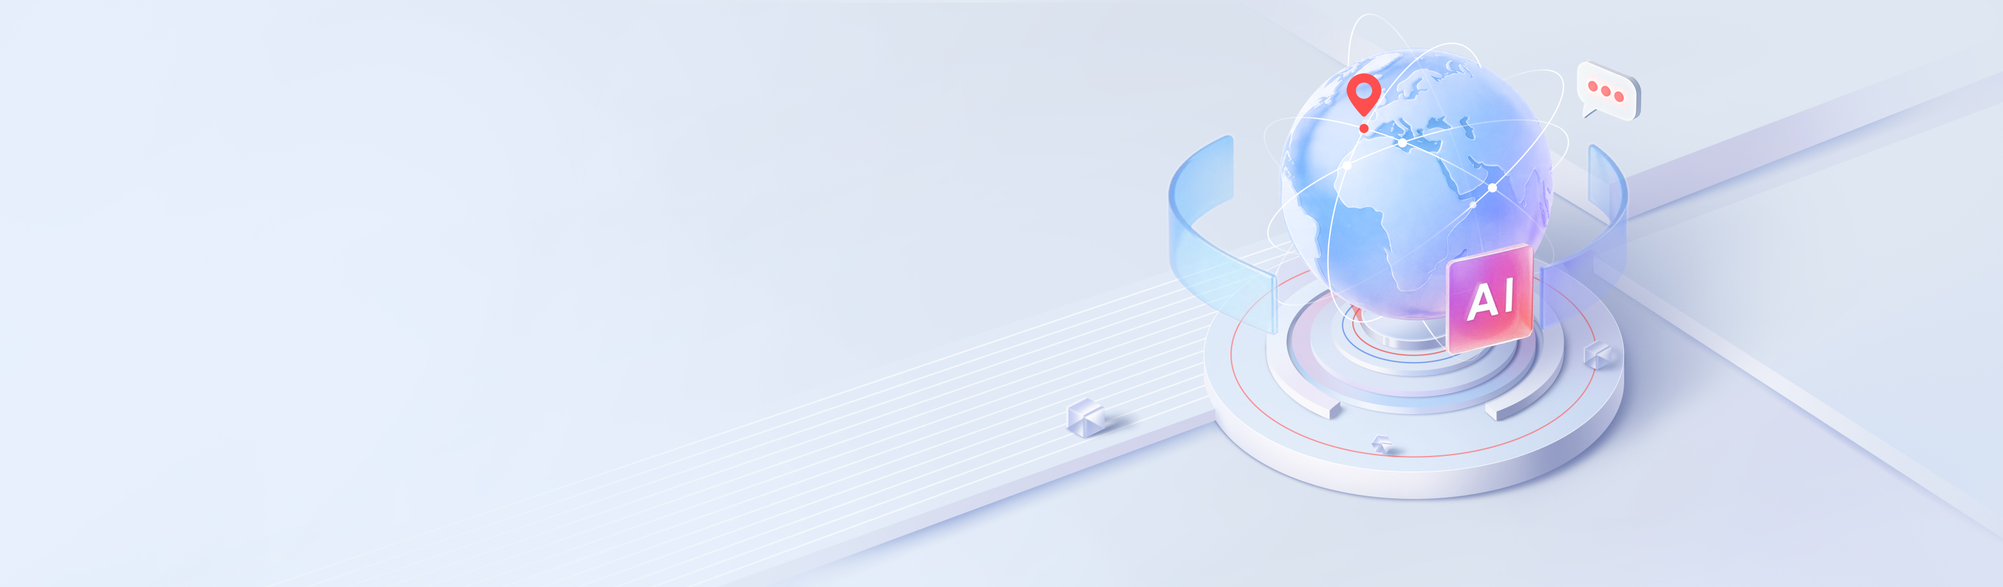
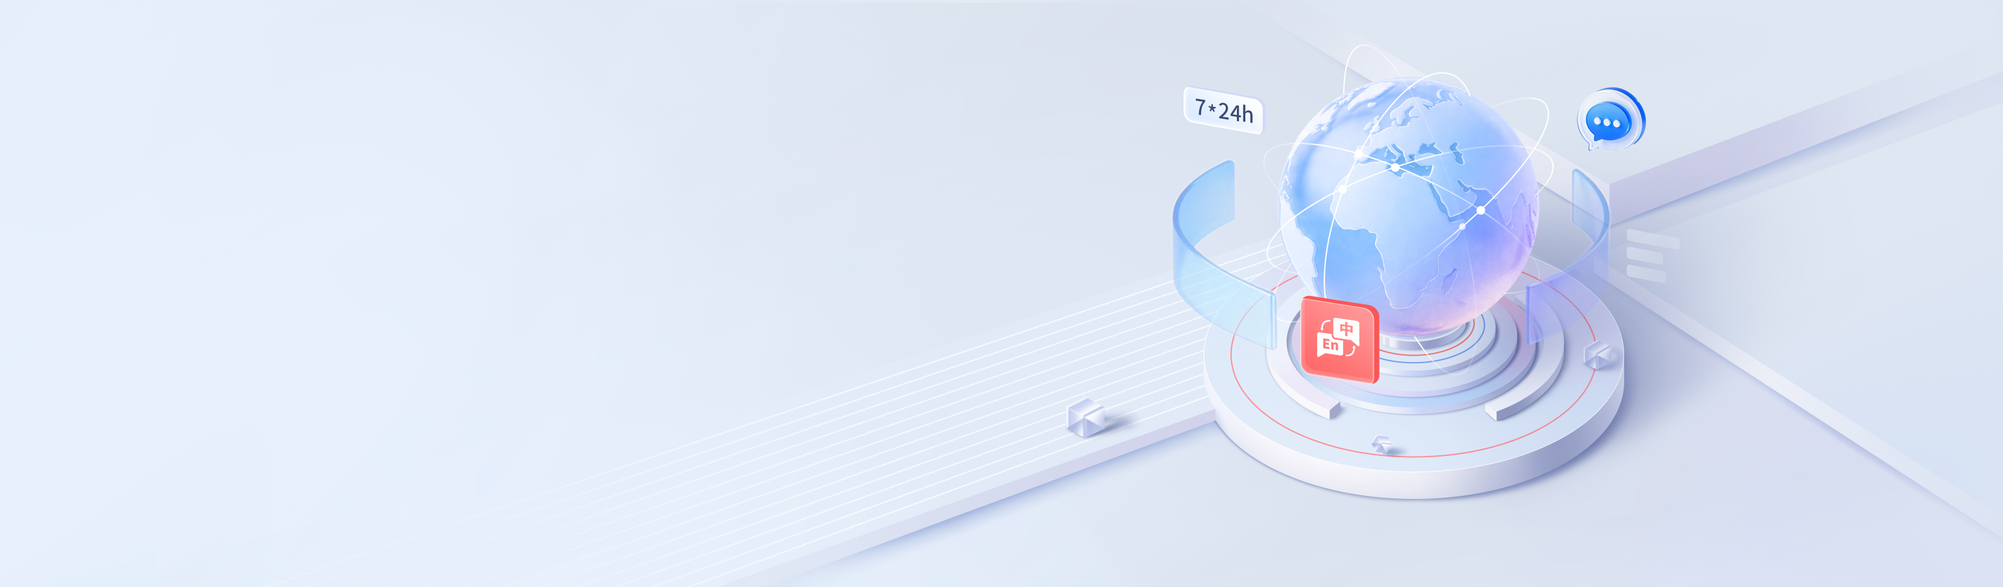
Add files via upload

Changed region(s): [[0.5625, 0.0933, 0.8438, 0.6533]]

diff --git a/index.html b/index.html
@@ -183,9 +183,9 @@
 
         /* Hero */
         .hero {
-            padding-top: 8rem;
+            padding-top: 110px;
             padding-bottom: 4rem;
-            min-height: 550px;
+            min-height: 450px;
             background: url('img/banner.jpg') center/cover no-repeat;
             position: relative;
             margin-top: 5rem;
@@ -427,15 +427,15 @@
                     </span>
                     <button class="btn btn-primary" style="padding: 0.5rem 1.5rem;">免费试用</button>
                 </div>
-            </div>
-        </div>
+             </div>
+         </div>
+     </div>
     </nav>
 
-    <header class="hero">
+    <header class="hero" style="height: 450px; background-position: center;">
         <div class="container">
             <div class="hero-grid">
                 <div class="hero-text" style="max-width: 500px; margin-left: auto;">
-                <span class="section-label" style="background: rgba(252, 53, 60, 0.1); color: #fc354c; border: none; padding: 0.5rem 1rem; border-radius: 2rem;">出海客服系统</span>
                 <h1 class="magazine-title" style="font-size: 2.5rem; margin-top: 1rem;">出海客服系统</h1>
                 <p style="font-size: 1rem; color: var(--text-sub); margin-bottom: 2.5rem; line-height: 1.6;">
                     为企业全球业务提供AI驱动的客服系统平台，帮助出海企业构建支撑全球业务增长的高效服务体系。
@@ -464,29 +464,41 @@
             <h2 style="font-size: 2.5rem; margin-bottom: 1rem;">在一个工作台里 统一接待全球客户咨询</h2>
             <p style="color: var(--text-sub); font-size: 1.125rem;">一个工作台管理全球客户咨询</p>
         </div>
-        <div class="container" style="display: grid; grid-template-columns: 1fr 1fr; gap: 4rem; align-items: center; padding: 3rem; background: #F4F8FD; border: 1px solid #dbeafe; border-radius: 1.5rem;">
-            <div style="max-width: 500px;">
-                <div style="display: flex; align-items: center; gap: 1rem; margin-bottom: 1.5rem;">
-                    <div style="width: 3rem; height: 3rem; background: rgba(252, 53, 60, 0.1); display: flex; align-items: center; justify-content: center; border-radius: 0.75rem; color: #fc354c;">
-                        <svg width="24" height="24" fill="none" stroke="currentColor" stroke-width="2" viewBox="0 0 24 24"><path d="M12 2L2 7l10 5 10-5-10-5zM2 17l10 5 10-5M2 12l10 5 10-5"></path></svg>
+        <div style="display: grid; grid-template-columns: 1fr 1fr; gap: 40px; padding: 0 100px;">
+            <div style="padding: 3rem; background: #F4F8FD; border: 1px solid #dbeafe; border-radius: 1.5rem; width: 560px; margin: 0 auto;">
+            <div>
+                <div style="max-width: 500px; margin-bottom: 2rem;">
+                    <div style="display: flex; align-items: center; gap: 1rem; margin-bottom: 1.5rem;">
+                        <div style="width: 3rem; height: 3rem; background: rgba(252, 53, 60, 0.1); display: flex; align-items: center; justify-content: center; border-radius: 0.75rem; color: #fc354c;">
+                            <svg width="24" height="24" fill="none" stroke="currentColor" stroke-width="2" viewBox="0 0 24 24"><path d="M12 2L2 7l10 5 10-5-10-5zM2 17l10 5 10-5M2 12l10 5 10-5"></path></svg>
+                        </div>
+                        <h3 style="font-size: 1.5rem;">海外社交媒体多账号聚合管理</h3>
                     </div>
-                    <h3 style="font-size: 1.5rem;">海外社交媒体多账号聚合管理</h3>
+                    <p style="color: var(--text-sub); margin-bottom: 2rem; line-height: 1.6;">
+                        坐席在一个工作台响应全球各地的各类业务支持，支持邮件、WhatsApp, Facebook, Line, Twitter, Instagram 及 Shopify等海外社交媒体的接入，消息入口、聊天记录、客户画像一目了然。
+                    </p>
                 </div>
-                <p style="color: var(--text-sub); margin-bottom: 2rem; line-height: 1.6;">
-                    坐席在一个工作台响应全球各地的各类业务支持，支持邮件、WhatsApp, Facebook, Line, Twitter, Instagram 及 Shopify等海外社交媒体的接入，消息入口、聊天记录、客户画像一目了然。
-                </p>
-                <div style="display: flex; align-items: center; gap: 1rem; margin-bottom: 1.5rem;">
-                    <div style="width: 3rem; height: 3rem; background: rgba(252, 53, 60, 0.1); display: flex; align-items: center; justify-content: center; border-radius: 0.75rem; color: #fc354c;">
-                        <svg width="24" height="24" fill="none" stroke="currentColor" stroke-width="2" viewBox="0 0 24 24"><path d="M5 3l4 4L7 11V3zm14 0l-4 4 2 4V3zM2 12h20M7 21v-4M17 21v-4M9 21h6"></path></svg>
-                    </div>
-                    <h3 style="font-size: 1.5rem;">全球多语言沟通覆盖</h3>
-                </div>
-                <p style="color: var(--text-sub); margin-bottom: 2rem; line-height: 1.6;">
-                    覆盖全球几十种主流语言，客服只需输入本地语言回复，系统即刻将其转换为访客语言，降低沟通成本。
-                </p>
+                <div style="border-radius: 1.5rem; overflow: hidden; width: 470px; margin: 0 auto; display: flex; justify-content: center;">
+                     <img src="img/136.png" alt="系统界面" style="width: 416px; height: auto; display: block;">
+                 </div>
             </div>
-            <div style="border-radius: 1.5rem; overflow: hidden;">
-                <img src="img/1.png" alt="系统界面" style="width: 100%; height: auto; display: block;">
+         </div>
+         <div style="padding: 3rem; background: #F4F8FD; border: 1px solid #dbeafe; border-radius: 1.5rem; width: 560px; margin: 0 auto;">
+             <div>
+                 <div style="max-width: 500px; margin-bottom: 2rem;">
+                    <div style="display: flex; align-items: center; gap: 1rem; margin-bottom: 1.5rem;">
+                        <div style="width: 3rem; height: 3rem; background: rgba(252, 53, 60, 0.1); display: flex; align-items: center; justify-content: center; border-radius: 0.75rem; color: #fc354c;">
+                            <svg t="1776820181381" class="icon" viewBox="0 0 1024 1024" version="1.1" xmlns="http://www.w3.org/2000/svg" p-id="9040" width="24" height="24"><path d="M512 0C229.266286 0 0 229.266286 0 512s229.266286 512 512 512 512-229.266286 512-512S794.733714 0 512 0z m0 256c-33.718857 0-66.633143-2.962286-98.523429-8.557714 29.952-120.246857 74.971429-183.442286 98.523429-183.442286 23.552 0 68.571429 63.195429 98.523429 183.442286C578.633143 252.928 545.718857 256 512 256z m160.804571-23.332571c-15.542857-63.634286-36.352-117.248-60.708571-157.001143a447.341714 447.341714 0 0 1 193.170286 98.377143 542.573714 542.573714 0 0 1-132.461715 58.624z m-321.609142 0A546.121143 546.121143 0 0 1 218.843429 174.08a446.72 446.72 0 0 1 193.060571-98.267429c-24.356571 39.643429-45.056 93.257143-60.708571 156.891429z m352.219428 247.332571a1232.64 1232.64 0 0 0-17.554286-184.466286 605.110857 605.110857 0 0 0 165.449143-75.190857 445.622857 445.622857 0 0 1 107.081143 259.657143h-254.976z m-637.805714 0c7.094857-98.742857 45.933714-188.708571 106.861714-259.547429 49.700571 32.548571 105.581714 57.819429 165.668572 74.971429-9.910857 56.685714-16.091429 118.857143-17.554286 184.576H65.609143z m318.976 0c1.462857-63.634286 7.314286-120.466286 15.872-169.947429 36.132571 6.4 73.252571 9.947429 111.542857 9.947429 38.180571 0 75.446857-3.437714 111.542857-9.837714 8.557714 49.481143 14.262857 106.313143 15.872 169.837714h-254.829714z m466.724571 323.657143a605.110857 605.110857 0 0 0-165.485714-75.190857c9.947429-56.685714 16.091429-118.857143 17.590857-184.466286h254.976a445.622857 445.622857 0 0 1-107.081143 259.657143zM400.457143 713.947429a1173.101714 1173.101714 0 0 1-15.872-169.947429h254.72a1141.577143 1141.577143 0 0 1-15.872 169.837714 636.379429 636.379429 0 0 0-222.976 0.109715z m-227.876572 89.6a445.330286 445.330286 0 0 1-106.861714-259.547429h254.976c1.462857 65.718857 7.68 127.890286 17.590857 184.576a604.489143 604.489143 0 0 0-165.705143 74.971429zM512 960c-23.552 0-68.571429-63.195429-98.523429-183.442286 31.890286-5.485714 64.804571-8.557714 98.523429-8.557714 33.718857 0 66.633143 3.072 98.523429 8.557714-29.952 120.246857-74.971429 183.442286-98.523429 183.442286z m100.096-11.666286c24.356571-39.753143 45.165714-93.366857 60.708571-157.001143 47.652571 13.897143 92.123429 33.682286 132.461715 58.514286a446.281143 446.281143 0 0 1-193.170286 98.486857z m-200.192 0a446.72 446.72 0 0 1-193.060571-98.267428 537.965714 537.965714 0 0 1 132.388571-58.624c15.616 63.524571 36.315429 117.138286 60.672 156.891428z" fill="currentColor" p-id="9041"></path></svg>
+                        </div>
+                        <h3 style="font-size: 1.5rem;">全球多语言沟通覆盖</h3>
+                    </div>
+                    <p style="color: var(--text-sub); margin-bottom: 2rem; line-height: 1.6; height: 77px;">
+                        覆盖全球几十种主流语言，客服只需输入本地语言回复，系统即刻将其转换为访客语言，降低沟通成本。
+                    </p>
+                </div>
+                <div style="border-radius: 1.5rem; overflow: hidden; width: 470px; margin: 0 auto; display: flex; justify-content: center;">
+                     <img src="img/137.png" alt="系统界面" style="width: 416px; height: auto; display: block;">
+                 </div>
             </div>
         </div>
     </section>
@@ -497,139 +509,62 @@
         }
     </style>
 
-    <section id="数字员工" class="section-py" style="background: #F9FAFB;">
-        <div class="container" style="text-align: center; margin-bottom: 5rem; max-width: 1200px; margin: 0 auto; padding: 4rem 2rem;">
+    <section id="数字员工" class="section-py" style="background: #F9FAFB; padding: 4rem 0;">
+        <div class="container" style="text-align: center; margin-bottom: 5rem; max-width: 1200px; margin: 0 auto; padding: 0 2rem;">
             <h2 style="font-size: 2.5rem; margin-bottom: 1.5rem; color: #111827;">LLMs驱动的24/7数字员工 精准应对跨国服务诉求</h2>
             <p style="color: #6B7280; font-size: 1.125rem; max-width: 48rem; margin: 0 auto;">
-                只需维护一套知识库，AI Agent即可自动适配全球语种，覆盖语音+在线，实现地道的本地化服务与业务自动化。
+                管理员只需维护一套知识库，AI Agent即可自动适配全球100+语种，覆盖语音+在线，让您的服务团队无需外语背景，也能提供地道的本地化服务，实现真正的业务自动化。
             </p>
         </div>
-        <div class="container" style="display: grid; grid-template-columns: 1fr 1fr; gap: 4rem; max-width: 1200px; margin: 0 auto; padding: 0 2rem;">
-            <div style="background: #FFFFFF; border-radius: 1rem; padding: 2.5rem; box-shadow: 0 10px 25px -5px rgba(0, 0, 0, 0.05); width: 599px; height: 620px;">
-                <div style="display: flex; align-items: center; gap: 1rem; margin-bottom: 2.5rem;">
-                    <div style="width: 3rem; height: 3rem; background: var(--text-main); border-radius: 1rem; display: flex; align-items: center; justify-content: center; color: white;">
-                          <svg width="24" height="24" fill="none" stroke="currentColor" stroke-width="2" viewBox="0 0 24 24"><path d="M12 6V4m0 2a2 2 0 100 4m0-4a2 2 0 110 4m-6 8a2 2 0 100-4m0 4a2 2 0 110-4m0 4v2m0-6V4m6 6v10m6-2a2 2 0 100-4m0 4a2 2 0 110-4m0 4v2m0-6V4"></path></svg>
-                      </div>
-                    <div>
-                        <h3 style="font-size: 1.5rem; color: #111827; margin: 0;">本地化品牌控制台</h3>
-                        <p style="font-size: 0.875rem; color: #6B7280; margin: 0.25rem 0 0 0;">极简配置，分钟级生成地道专家级AI客服</p>
-                    </div>
-                </div>
-                <div style="display: grid; grid-template-columns: 1fr 1fr; gap: 1.5rem; margin-bottom: 1.5rem;">
-                    <div style="padding: 1.5rem; background: #FFFFFF; border: 1px solid rgba(229, 231, 235, 0.5); border-radius: 0.75rem; display: flex; justify-content: space-between; align-items: center; height: 76px;">
-                        <div>
-                            <div style="font-size: 0.75rem; color: #6B7280; margin-bottom: 0.25rem;">品牌LOGO风格</div>
-                            <div style="font-size: 1rem; color: #111827; font-weight: 500;">商务专业 (Expert)</div>
-                        </div>
-                        <svg width="20" height="20" fill="none" stroke="#6B7280" stroke-width="2" viewBox="0 0 24 24">
-                            <path d="M19 9l-7 7-7-7"></path>
+        <div style="margin: 4rem auto; max-width: 1200px; display: grid; grid-template-columns: 1fr 1fr; gap: 4rem; align-items: start; padding: 0 2rem;">
+            <div style="background: #1E293B; border-radius: 1rem; padding: 2.5rem; color: #FFFFFF; width: 530px; height: 410px;">
+                <div style="display: flex; align-items: center; gap: 1rem; margin-bottom: 2rem;">
+                    <div style="width: 2.5rem; height: 2.5rem; background: #3B82F6; border-radius: 0.5rem; display: flex; align-items: center; justify-content: center;">
+                        <svg width="20" height="20" fill="none" stroke="currentColor" stroke-width="2" viewBox="0 0 24 24">
+                            <path d="M22 12h-4l-3 9L9 3l-3 9H2"></path>
                         </svg>
                     </div>
-                    <div style="padding: 1.5rem; background: #FFFFFF; border: 1px solid rgba(229, 231, 235, 0.5); border-radius: 0.75rem; display: flex; justify-content: space-between; align-items: center; height: 76px;">
-                        <div>
-                            <div style="font-size: 0.75rem; color: #6B7280; margin-bottom: 0.25rem;">工作时区 & 时间</div>
-                            <div style="font-size: 1rem; color: #111827; font-weight: 500;">全球 24/7 全天候</div>
-                        </div>
-                        <svg width="20" height="20" fill="none" stroke="#6B7280" stroke-width="2" viewBox="0 0 24 24">
-                            <path d="M19 9l-7 7-7-7"></path>
-                        </svg>
+                    <h3 style="font-size: 1.25rem; font-weight: 600; margin: 0;">本地化品牌定制</h3>
+                </div>
+                <div style="display: grid; grid-template-columns: 1fr 1fr; gap: 2rem; margin-bottom: 2rem;">
+                    <div style="background: rgba(255, 255, 255, 0.05); border-radius: 0.75rem; padding: 1.5rem;">
+                        <div style="font-size: 0.875rem; font-weight: 500; margin-bottom: 0.5rem; color: #94A3B8;">LOGO</div>
+                        <div style="font-size: 0.75rem; color: #CBD5E1;">头像、语言、界面深度结合本地市场</div>
                     </div>
-                    <div style="padding: 1.5rem; background: #FFFFFF; border: 1px solid rgba(229, 231, 235, 0.5); border-radius: 0.75rem; display: flex; justify-content: space-between; align-items: center; height: 76px;">
-                        <div>
-                            <div style="font-size: 0.75rem; color: #6B7280; margin-bottom: 0.25rem;">主要接待语种</div>
-                            <div style="font-size: 1rem; color: #111827; font-weight: 500;">全球全语种 (100+)</div>
-                        </div>
-                        <svg width="20" height="20" fill="none" stroke="#6B7280" stroke-width="2" viewBox="0 0 24 24">
-                            <path d="M19 9l-7 7-7-7"></path>
-                        </svg>
-                    </div>
-                    <div style="padding: 1.5rem; background: #FFFFFF; border: 1px solid rgba(229, 231, 235, 0.5); border-radius: 0.75rem; display: flex; justify-content: space-between; align-items: center; height: 76px;">
-                        <div>
-                            <div style="font-size: 0.75rem; color: #6B7280; margin-bottom: 0.25rem;">行业知识库</div>
-                            <div style="font-size: 1rem; color: #111827; font-weight: 500;">跨境电商 </div>
-                        </div>
-                        <svg width="20" height="20" fill="none" stroke="#6B7280" stroke-width="2" viewBox="0 0 24 24">
-                            <path d="M19 9l-7 7-7-7"></path>
-                        </svg>
+                    <div style="background: rgba(255, 255, 255, 0.05); border-radius: 0.75rem; padding: 1.5rem;">
+                        <div style="font-size: 0.875rem; font-weight: 500; margin-bottom: 0.5rem; color: #94A3B8;">LLM AGENT</div>
+                        <div style="font-size: 0.75rem; color: #CBD5E1;">7*24h 接待全球用户</div>
                     </div>
                 </div>
-                <div style="padding: 1.5rem; background: #FFFFFF; border: 1px solid rgba(229, 231, 235, 0.5); border-radius: 0.75rem; display: flex; justify-content: space-between; align-items: center; margin-bottom: 2.5rem; height: 76px;">
-                    <div>
-                        <div style="font-size: 0.75rem; color: #6B7280; margin-bottom: 0.25rem;">决策引擎 (BASE LLM)</div>
-                        <div style="font-size: 1rem; color: #111827; font-weight: 500;">GlobalLink Pro (自研出海增强模型)</div>
-                    </div>
-                    <svg width="20" height="20" fill="none" stroke="#6B7280" stroke-width="2" viewBox="0 0 24 24">
-                        <path d="M19 9l-7 7-7-7"></path>
-                    </svg>
+                <div style="font-size: 0.875rem; color: #CBD5E1; margin-bottom: 2rem; line-height: 1.5;">
+                    支持全球大小语种，大模型通话机器人、大模型文本机器人 7*24h 接待全球用户，回复常用问题、自动查询、物流订单、推荐热门商品。
                 </div>
-                <button style="padding: 0.75rem 2rem; background: #fd394c; color: #ffffff; border: none; border-radius: 0.75rem; font-size: 1rem; font-weight: 500; display: flex; align-items: center; gap: 0.5rem; cursor: pointer;">
-                    立即定制我的专属机器人
-                </button>
-            </div>
-            <div style="background: #FFFFFF; border-radius: 1rem; padding: 0; box-shadow: 0 10px 25px -5px rgba(0, 0, 0, 0.05); overflow: hidden;">
-                <div style="background: #111827; padding: 1.5rem; display: flex; align-items: center; gap: 1rem;">
-                    <div style="width: 2.5rem; height: 2.5rem; background: #3B82F6; display: flex; align-items: center; justify-content: center; border-radius: 0.5rem; color: #FFFFFF;">
-                        <svg t="1776755782953" class="icon" viewBox="0 0 1024 1024" version="1.1" xmlns="http://www.w3.org/2000/svg" p-id="15590" width="28" height="28">
-                         <path d="M574.464 159.744c0 15.701333-6.869333 29.824-17.792 39.552v66.56h177.792c28.288 0 55.424 11.221333 75.434667 31.146667 20.010667 19.882667 31.232 46.890667 31.232 75.050666v353.792c0 28.16-11.221333 55.168-31.232 75.093334a106.922667 106.922667 0 0 1-75.434667 31.061333h-426.666667a106.922667 106.922667 0 0 1-75.434666-31.104 105.856 105.856 0 0 1-31.232-75.050667V372.053333c0-28.16 11.221333-55.168 31.232-75.093333a106.922667 106.922667 0 0 1 75.434666-31.061333h177.749334V199.253333a53.034667 53.034667 0 0 1-6.826667-71.765333 53.290667 53.290667 0 0 1 46.506667-20.693333 53.504 53.504 0 0 1 42.752 27.562666c4.266667 7.765333 6.485333 16.469333 6.485333 25.344z m-480 283.050667H165.546667v212.309333H94.464v-212.309333z m853.333333 0h-71.125333v212.309333h71.125333v-212.309333z m-533.333333 159.232c14.122667 0 27.733333-5.589333 37.717333-15.573334a52.906667 52.906667 0 0 0 0-75.050666 53.461333 53.461333 0 0 0-75.434666 0 52.906667 52.906667 0 0 0 37.717333 90.624z m266.666667-53.077334c0-14.08-5.632-27.562667-15.616-37.546666a53.461333 53.461333 0 0 0-75.434667 0 52.949333 52.949333 0 0 0 37.717333 90.624c14.122667 0 27.733333-5.589333 37.717334-15.573334a52.906667 52.906667 0 0 0 15.616-37.546666z" fill="currentColor" opacity=".7" p-id="15591"></path>
-                     </svg>
-                    </div>
-                    <div>
-                        <div style="font-size: 1rem; color: #FFFFFF; font-weight: 500;">GlobalLink Agent</div>
-                        <div style="font-size: 0.75rem; color: #9CA3AF; display: flex; align-items: center; gap: 0.5rem;">
-                            <div style="width: 0.5rem; height: 0.5rem; background: #10B981; border-radius: 50%;"></div>
-                            <span>ACTIVE NOW</span>
-                        </div>
-                    </div>
-                </div>
-                <div style="padding: 1.5rem; height: 438px; overflow-y: auto; width: 458px; scrollbar-width: thin; scrollbar-color: #E5E7EB #F3F4F6;">
-                    <div style="margin-bottom: 1.5rem;">
-                        <div style="background: #F3F4F6; border-radius: 0.5rem; padding: 1rem; margin-bottom: 0.5rem;">
-                            <div style="font-size: 0.75rem; color: #6B7280; margin-bottom: 0.5rem;">Agent:</div>
-                            <div style="font-size: 0.875rem; color: #111827; line-height: 1.5;">
-                                Hello! I'm your localization expert. I see you're connecting from Dubai. How can I assist with your order today?
-                                <img src="https://flagcdn.com/w20/ae.png" alt="UAE Flag" style="width: 1.25rem; height: auto; vertical-align: middle; margin-left: 0.25rem;">
-                            </div>
-                            <div style="height: 1px; background: #E5E7EB; margin: 0.5rem 0;"></div>
-                            <div style="font-size: 0.75rem; color: #6B7280; line-height: 1.5;">
-                                你好！我是你的本地化专家。我看到你从迪拜连接。我今天可以如何协助处理你的订单？
-                            </div>
-                        </div>
-                        <div style="background: #3B82F6; border-radius: 0.5rem; padding: 1rem; margin-left: 2rem;">
-                            <div style="font-size: 0.875rem; color: #FFFFFF; line-height: 1.5;">
-                                I need to change my delivery address to the Business Bay area.
-                            </div>
-                            <div style="height: 1px; background: rgba(255, 255, 255, 0.2); margin: 0.5rem 0;"></div>
-                            <div style="font-size: 0.75rem; color: rgba(255, 255, 255, 0.8); line-height: 1.5;">
-                                我需要将我的送货地址更改为Business Bay地区。
-                            </div>
-                        </div>
-                    </div>
-                    <div style="margin-bottom: 1.5rem;">
-                        <div style="background: #F3F4F6; border-radius: 0.5rem; padding: 1rem;">
-                            <div style="font-size: 0.75rem; color: #6B7280; margin-bottom: 0.5rem;">Agent:</div>
-                            <div style="font-size: 0.875rem; color: #111827; line-height: 1.5;">
-                                No problem at all! I've updated your coordinates for the Business Bay delivery. Expect a confirmation email shortly. Is there anything else?
-                                <svg width="16" height="16" fill="#F59E0B" viewBox="0 0 24 24" style="vertical-align: middle; margin-left: 0.25rem;">
-                                    <path d="M12 2C6.48 2 2 6.48 2 12s4.48 10 10 10 10-4.48 10-10S17.52 2 12 2zm-1 14H9v-2h2v2zm0-4H9V8h2v4zm4 4h-2v-2h2v2zm0-4h-2V8h2v4z"></path>
-                                </svg>
-                            </div>
-                            <div style="height: 1px; background: #E5E7EB; margin: 0.5rem 0;"></div>
-                            <div style="font-size: 0.75rem; color: #6B7280; line-height: 1.5;">
-                                完全没问题！我已经更新了你在Business Bay地区的送货坐标。请期待很快收到确认电子邮件。还有其他需要帮助的吗？
-                            </div>
-                        </div>
-                    </div>
-                </div>
-                <div style="padding: 1rem; border-top: 1px solid #E5E7EB; display: flex; align-items: center; gap: 1rem; background: #FFFFFF;">
-                    <input type="text" placeholder="Type your message..." style="flex: 1; padding: 1rem; border: none; border-radius: 0.75rem; font-size: 0.875rem; background: #F3F4F6;">
-                    <button style="width: 3rem; height: 3rem; background: #111827; color: #FFFFFF; border: none; border-radius: 50%; display: flex; align-items: center; justify-content: center; cursor: pointer; box-shadow: 0 2px 8px rgba(0, 0, 0, 0.1);">
-                        <svg width="24" height="24" fill="currentColor" viewBox="0 0 24 24">
-                            <path d="M13 7h-2v4H7v2h4v4h2v-4h4v-2h-4V7z"></path>
-                        </svg>
+                <div style="display: flex; gap: 1rem;">
+                    <button style="padding: 0.5rem 1.5rem; background: rgba(255, 255, 255, 0.1); color: #FFFFFF; border: none; border-radius: 0.5rem; font-size: 0.875rem; cursor: pointer;">
+                        电话客服机器人
+                    </button>
+                    <button style="padding: 0.5rem 1.5rem; background: rgba(255, 255, 255, 0.1); color: #FFFFFF; border: none; border-radius: 0.5rem; font-size: 0.875rem; cursor: pointer;">
+                        在线客服机器人
                     </button>
                 </div>
             </div>
-        </div>
+            <div style="background: #FFFFFF; border-radius: 1rem; padding: 2.5rem; box-shadow: 0 10px 25px -5px rgba(0, 0, 0, 0.05); width: 530px; height: 410px;">
+                <div style="display: flex; align-items: center; gap: 1rem; margin-bottom: 2rem;">
+                    <div style="width: 2.5rem; height: 2.5rem; background: rgba(252, 53, 60, 0.1); border-radius: 0.5rem; display: flex; align-items: center; justify-content: center; color: #fc354c;">
+                        <svg width="20" height="20" fill="none" stroke="currentColor" stroke-width="2" viewBox="0 0 24 24">
+                            <path d="M12 8v4l3 3m6-3a9 9 0 11-18 0 9 9 0 0118 0z"></path>
+                        </svg>
+                    </div>
+                    <h3 style="font-size: 1.25rem; font-weight: 600; margin: 0; color: #111827;">灵活的跨时区 AI 协作</h3>
+                </div>
+                <p style="font-size: 0.875rem; color: #6B7280; line-height: 1.5; margin-bottom: 2rem;">
+                    返应多国多时差服务接待问题，AI 自动提取电话、故障等关键信息，一键生成表单或工单自动处理业务，满足加购、售后报停、投诉等常见服务场景，总部实时监控全球地域服务数据。
+                </p>
+                <div style="width: 440px; height: 130px; border-radius: 0.75rem; overflow: hidden;">
+                    <img src="img/4.jpg" alt="AI 意图提取" style="width: 100%; height: 100%; object-fit: cover;">
+                </div>
+            </div>
+            </div>
     </section>
 
     <section id="落地能力" class="section-py bg-white">
@@ -643,8 +578,8 @@
                     <h4 style="font-size: 24px; margin-bottom: 1rem; margin-top: 20px; margin-left: 20px;">开通即用，无需本地部署</h4>
                     <p style="color: var(--text-sub); font-size: 15px; margin-top: 20px; margin-left: 20px;">SaaS 模式，开通账号即可使用。一套配置同步全球站点，一周多国上线。</p>
                 </div>
-                <div style="width: 160px; height: 160px; background: #f1f5f9; border-radius: 0.75rem; overflow: hidden;">
-                    <img src="img/2.png" alt="开通即用" style="width: 100%; height: 100%; object-fit: cover;">
+                <div style="width: 170px; height: 170px; background: #f1f5f9; border-radius: 0.75rem; overflow: hidden;">
+                    <img src="img/138.jpg" alt="开通即用" style="width: 100%; height: 100%; object-fit: cover;">
                 </div>
             </div>
             <div class="magazine-card" style="padding: 20px; display: flex; gap: 2rem; align-items: flex-start; transition: all 0.3s ease; height: 200px;">
@@ -653,7 +588,7 @@
                     <p style="color: var(--text-sub); font-size: 15px; margin-top: 20px; margin-left: 20px;">全球核心区域部署节点，本地化低延迟接入，确保页面和消息秒开，支持数据按需存储，满足数据主权要求。</p>
                 </div>
                 <div style="width: 160px; height: 160px; background: #f1f5f9; border-radius: 0.75rem; overflow: hidden;">
-                    <img src="img/3.png" alt="全球服务网络" style="width: 100%; height: 100%; object-fit: cover;">
+                    <img src="img/139.jpg" alt="全球服务网络" style="width: 100%; height: 100%; object-fit: cover;">
                 </div>
             </div>
             <div class="magazine-card" style="padding: 20px; display: flex; gap: 2rem; align-items: flex-start; transition: all 0.3s ease; height: 200px;">
@@ -662,7 +597,7 @@
                     <p style="color: var(--text-sub); font-size: 15px; margin-top: 20px; margin-left: 20px;">全球本地化号码接入，覆盖225+国家线路资源，提供VOIP网络电话，有网络即可全球通话，节省通信费用。</p>
                 </div>
                 <div style="width: 160px; height: 160px; background: #f1f5f9; border-radius: 0.75rem; overflow: hidden;">
-                    <img src="img/4.png" alt="海外通信资源" style="width: 100%; height: 100%; object-fit: cover;">
+                    <img src="img/140.jpg" alt="海外通信资源" style="width: 100%; height: 100%; object-fit: cover;">
                 </div>
             </div>
             <div class="magazine-card" style="padding: 20px; display: flex; gap: 2rem; align-items: flex-start; transition: all 0.3s ease;">
@@ -671,7 +606,7 @@
                     <p style="color: var(--text-sub); font-size: 15px; margin-top: 20px; margin-left: 20px;">与 Lark (飞书海外版) 及 WeCom 深度对接，客服在对话中直接发起工单，内部团队在 IM 中即时响应，让每一个客户诉求都能得到闭环解决。</p>
                 </div>
                 <div style="width: 160px; height: 160px; background: #f1f5f9; border-radius: 0.75rem; overflow: hidden;">
-                    <img src="img/5.png" alt="出海IM 办公平台" style="width: 100%; height: 100%; object-fit: cover;">
+                    <img src="img/141.jpg" alt="出海 IM 办公平台" style="width: 100%; height: 100%; object-fit: cover;">
                 </div>
             </div>
         </div>
